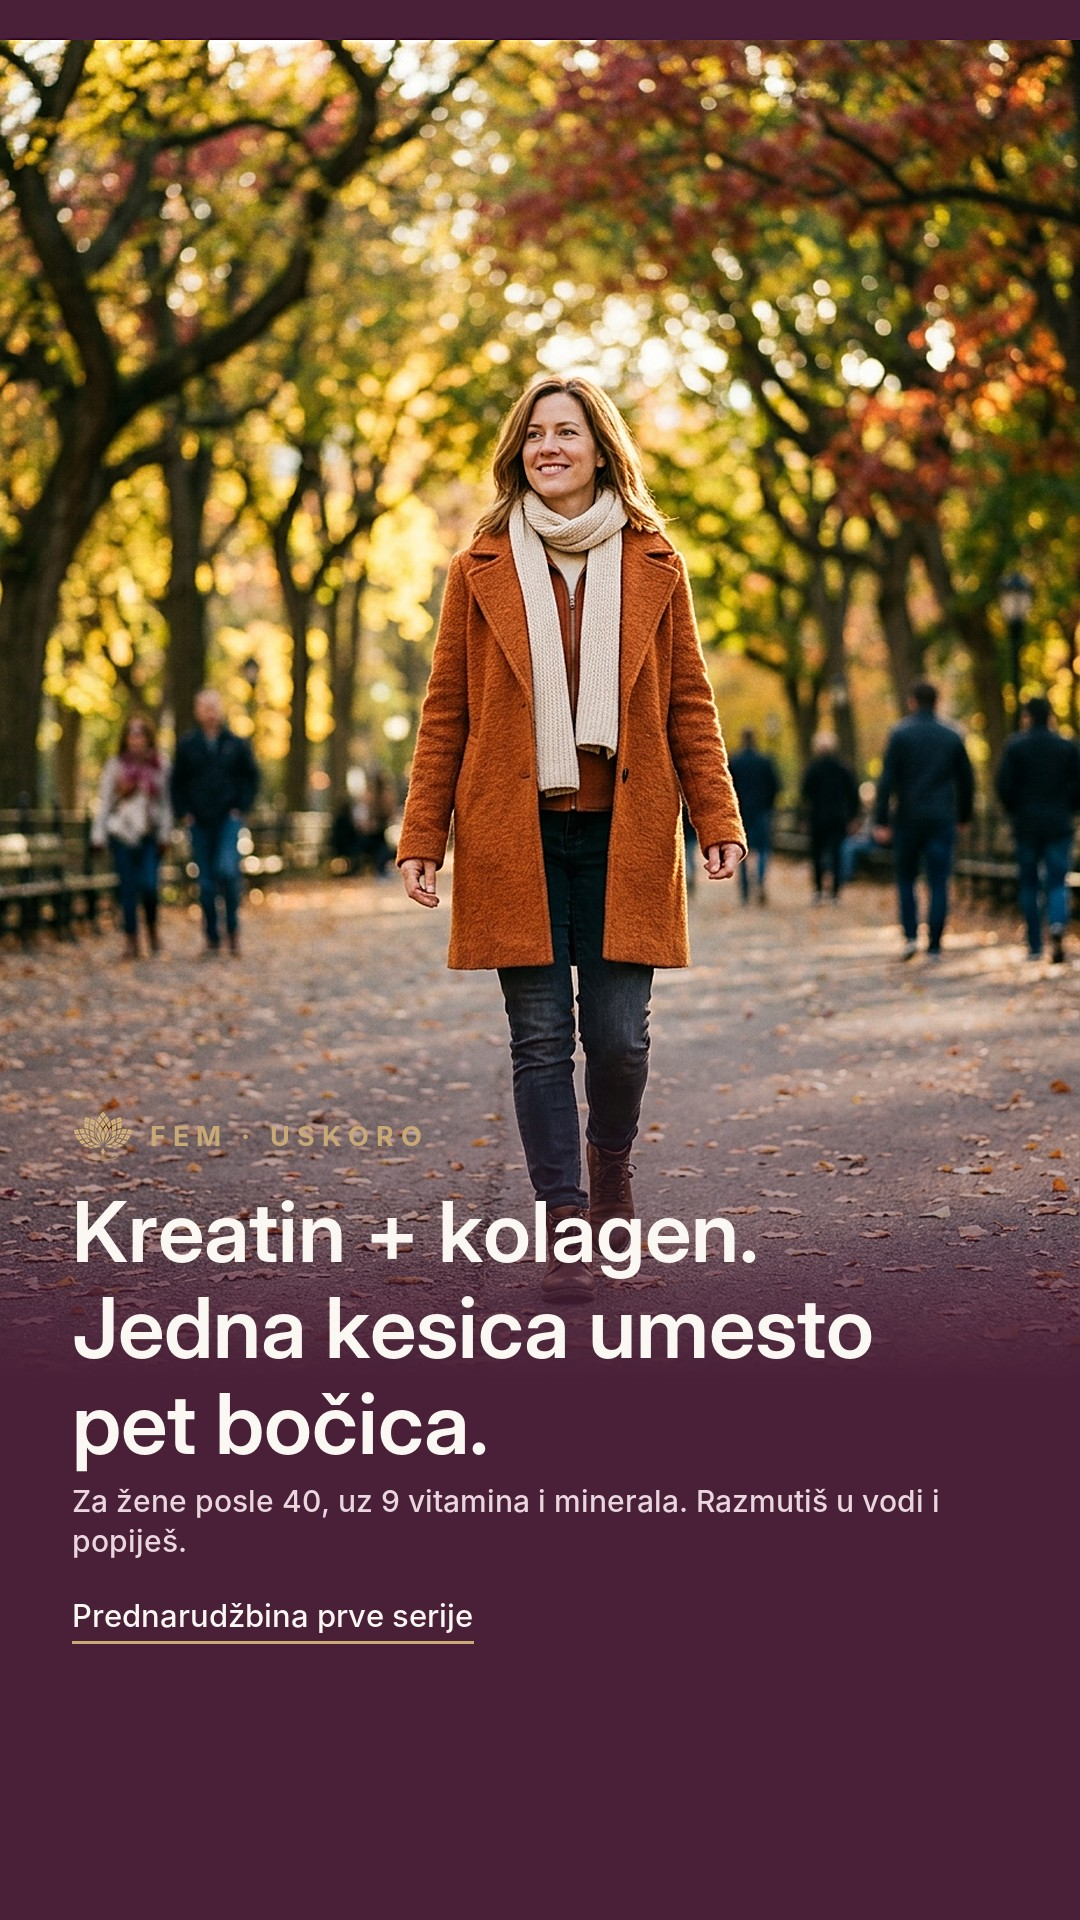
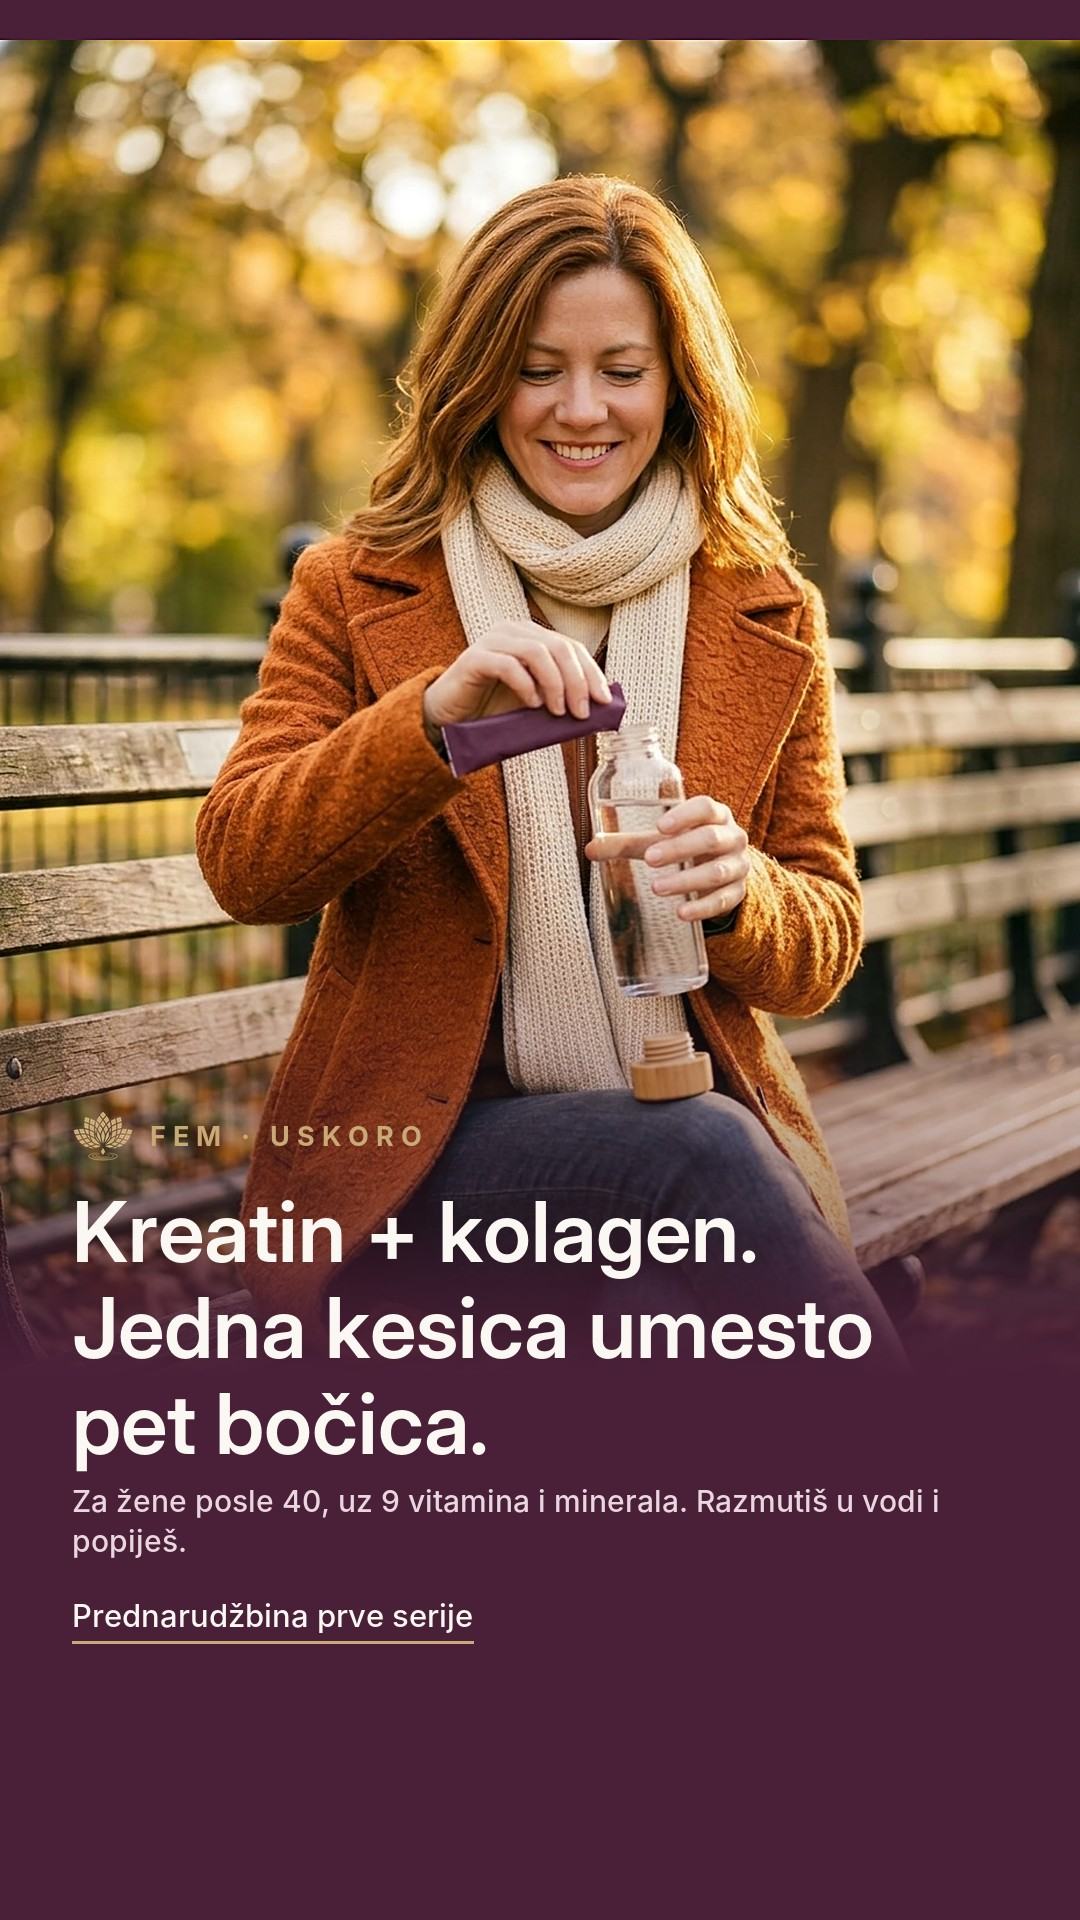
Oglasi sa kesicom; slika proizvoda na stranici po poruci (jutro/lepota/snaga)

diff --git a/landing/formula/index.html b/landing/formula/index.html
@@ -204,7 +204,19 @@ footer .wrap { display: flex; flex-wrap: wrap; gap: 8px 24px; justify-content: s
 
 <section class="inside">
   <div class="wrap">
-    <img id="inside" src="proizvod.jpg" alt="Pet ljubičastih kesica sa zlatnim lotosom na listu lotosa, pored ružičastog cveta lotosa" width="928" height="1152" loading="lazy">
+    <img id="inside" src="proizvod-jutro.jpg" alt="Pet ljubičastih kesica sa zlatnim lotosom na listu lotosa, pored ružičastog cveta lotosa" width="928" height="1152" loading="lazy">
+    <script>
+    /* Slika proizvoda u stilu poruke (v): jutro = park, lepota = svila, snaga = bučica. */
+    (function () {
+      var P = {
+        jutro:  { src: "proizvod-jutro.jpg",  w: 928,  h: 1152, alt: "Pet ljubičastih kesica sa zlatnim lotosom na listu lotosa, pored ružičastog cveta lotosa" },
+        lepota: { src: "proizvod-lepota.jpg", w: 928,  h: 1152, alt: "Pet ljubičastih kesica sa zlatnim lotosom na listu lotosa, na beloj svili, pored ružičastog cveta lotosa" },
+        snaga:  { src: "proizvod-snaga.jpg",  w: 1100, h: 614,  alt: "Ljubičaste kesice na lanenom stolnjaku pored bučice, šolje čaja i buketa suvog cveća" }
+      }[window.FEM_V];
+      var img = document.getElementById("inside");
+      img.setAttribute("src", P.src); img.setAttribute("width", P.w); img.setAttribute("height", P.h); img.setAttribute("alt", P.alt);
+    })();
+    </script>
     <div>
       <h2>Šta je u kesici</h2>
       <ul class="facts">

diff --git a/fem_oglasi_render.py b/fem_oglasi_render.py
@@ -74,13 +74,14 @@ def ad(src, out, head, small, w, h, cx=0.5, cy=0.5, bottom_pad=150, top=False, y
     im.convert("RGB").save(out, quality=90)
 
 # Test 13.11: faza1 = tri formule (poruka jutro), faza2 = lepota i snaga na pobedničkoj formuli.
+# Oglasi koriste fotke SA kesicom (jutro_strana, lepota_strana, snaga_oglas); stranica gore ima fotke bez kesice.
 # Faza 2 "jutro" koristi slike iz faze 1. cx, cy pomeraju samo kadar (ne tekst) ako naslov pada preko lica.
 F1_SMALL = "Za žene posle 40, uz 9 vitamina i minerala. Razmutiš u vodi i popiješ."
 JOBS = [
-    ("faza1", "f1_kk", "jutro_oglas.jpg.jpeg", "Kreatin + kolagen.|Jedna kesica umesto pet bočica.", F1_SMALL, 0.5, 0.0),
-    ("faza1", "f1_km", "jutro_oglas.jpg.jpeg", "Kreatin + maka.|Jedna kesica umesto pet bočica.", F1_SMALL, 0.5, 0.0),
-    ("faza1", "f1_mk", "jutro_oglas.jpg.jpeg", "Kolagen + maka.|Jedna kesica umesto pet bočica.", F1_SMALL, 0.5, 0.0),
-    ("faza2", "f2_lepota", "lepota_oglas.jpg.jpeg", "Kosa, koža i nokti|posle 40.",
+    ("faza1", "f1_kk", "jutro_strana.jpg.jpeg", "Kreatin + kolagen.|Jedna kesica umesto pet bočica.", F1_SMALL, 0.5, 0.0),
+    ("faza1", "f1_km", "jutro_strana.jpg.jpeg", "Kreatin + maka.|Jedna kesica umesto pet bočica.", F1_SMALL, 0.5, 0.0),
+    ("faza1", "f1_mk", "jutro_strana.jpg.jpeg", "Kolagen + maka.|Jedna kesica umesto pet bočica.", F1_SMALL, 0.5, 0.0),
+    ("faza2", "f2_lepota", "lepota_strana.jpg.jpeg", "Kosa, koža i nokti|posle 40.",
      "Biotin, cink i selen doprinose održavanju normalne kose.", 0.5, 0.0),
     ("faza2", "f2_snaga", "snaga_oglas.jpg.jpeg", "Trening posle 40.|Kreatin 3 g, svako jutro.",
      "Kreatin povećava fizičku sposobnost pri uzastopnim, kratkotrajnim vežbama visokog intenziteta.", 0.5, 0.0),
